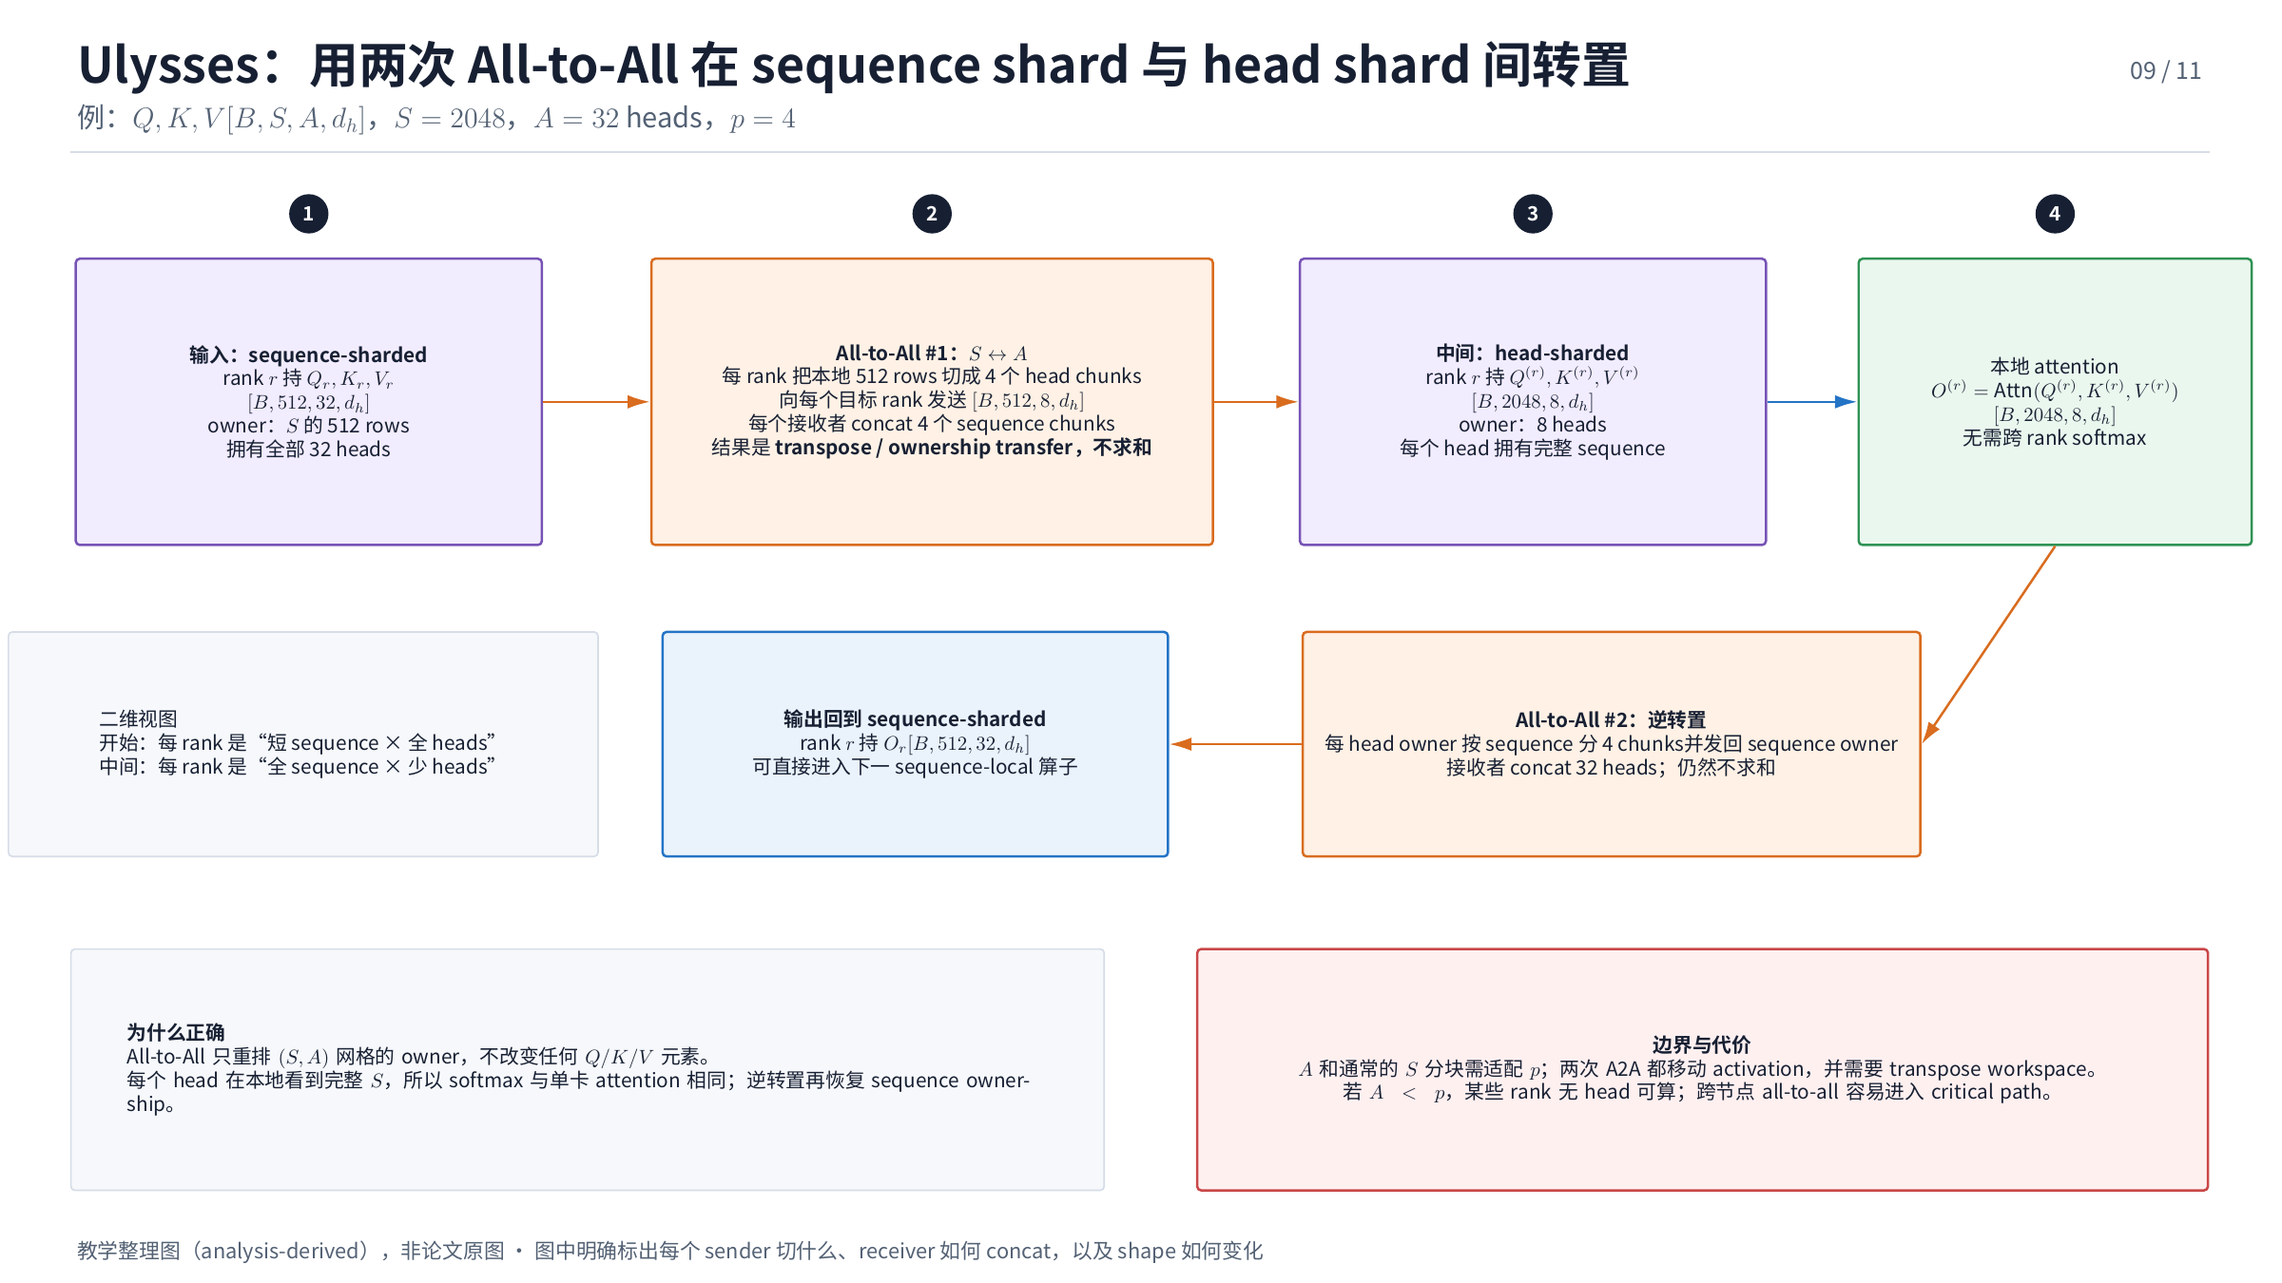
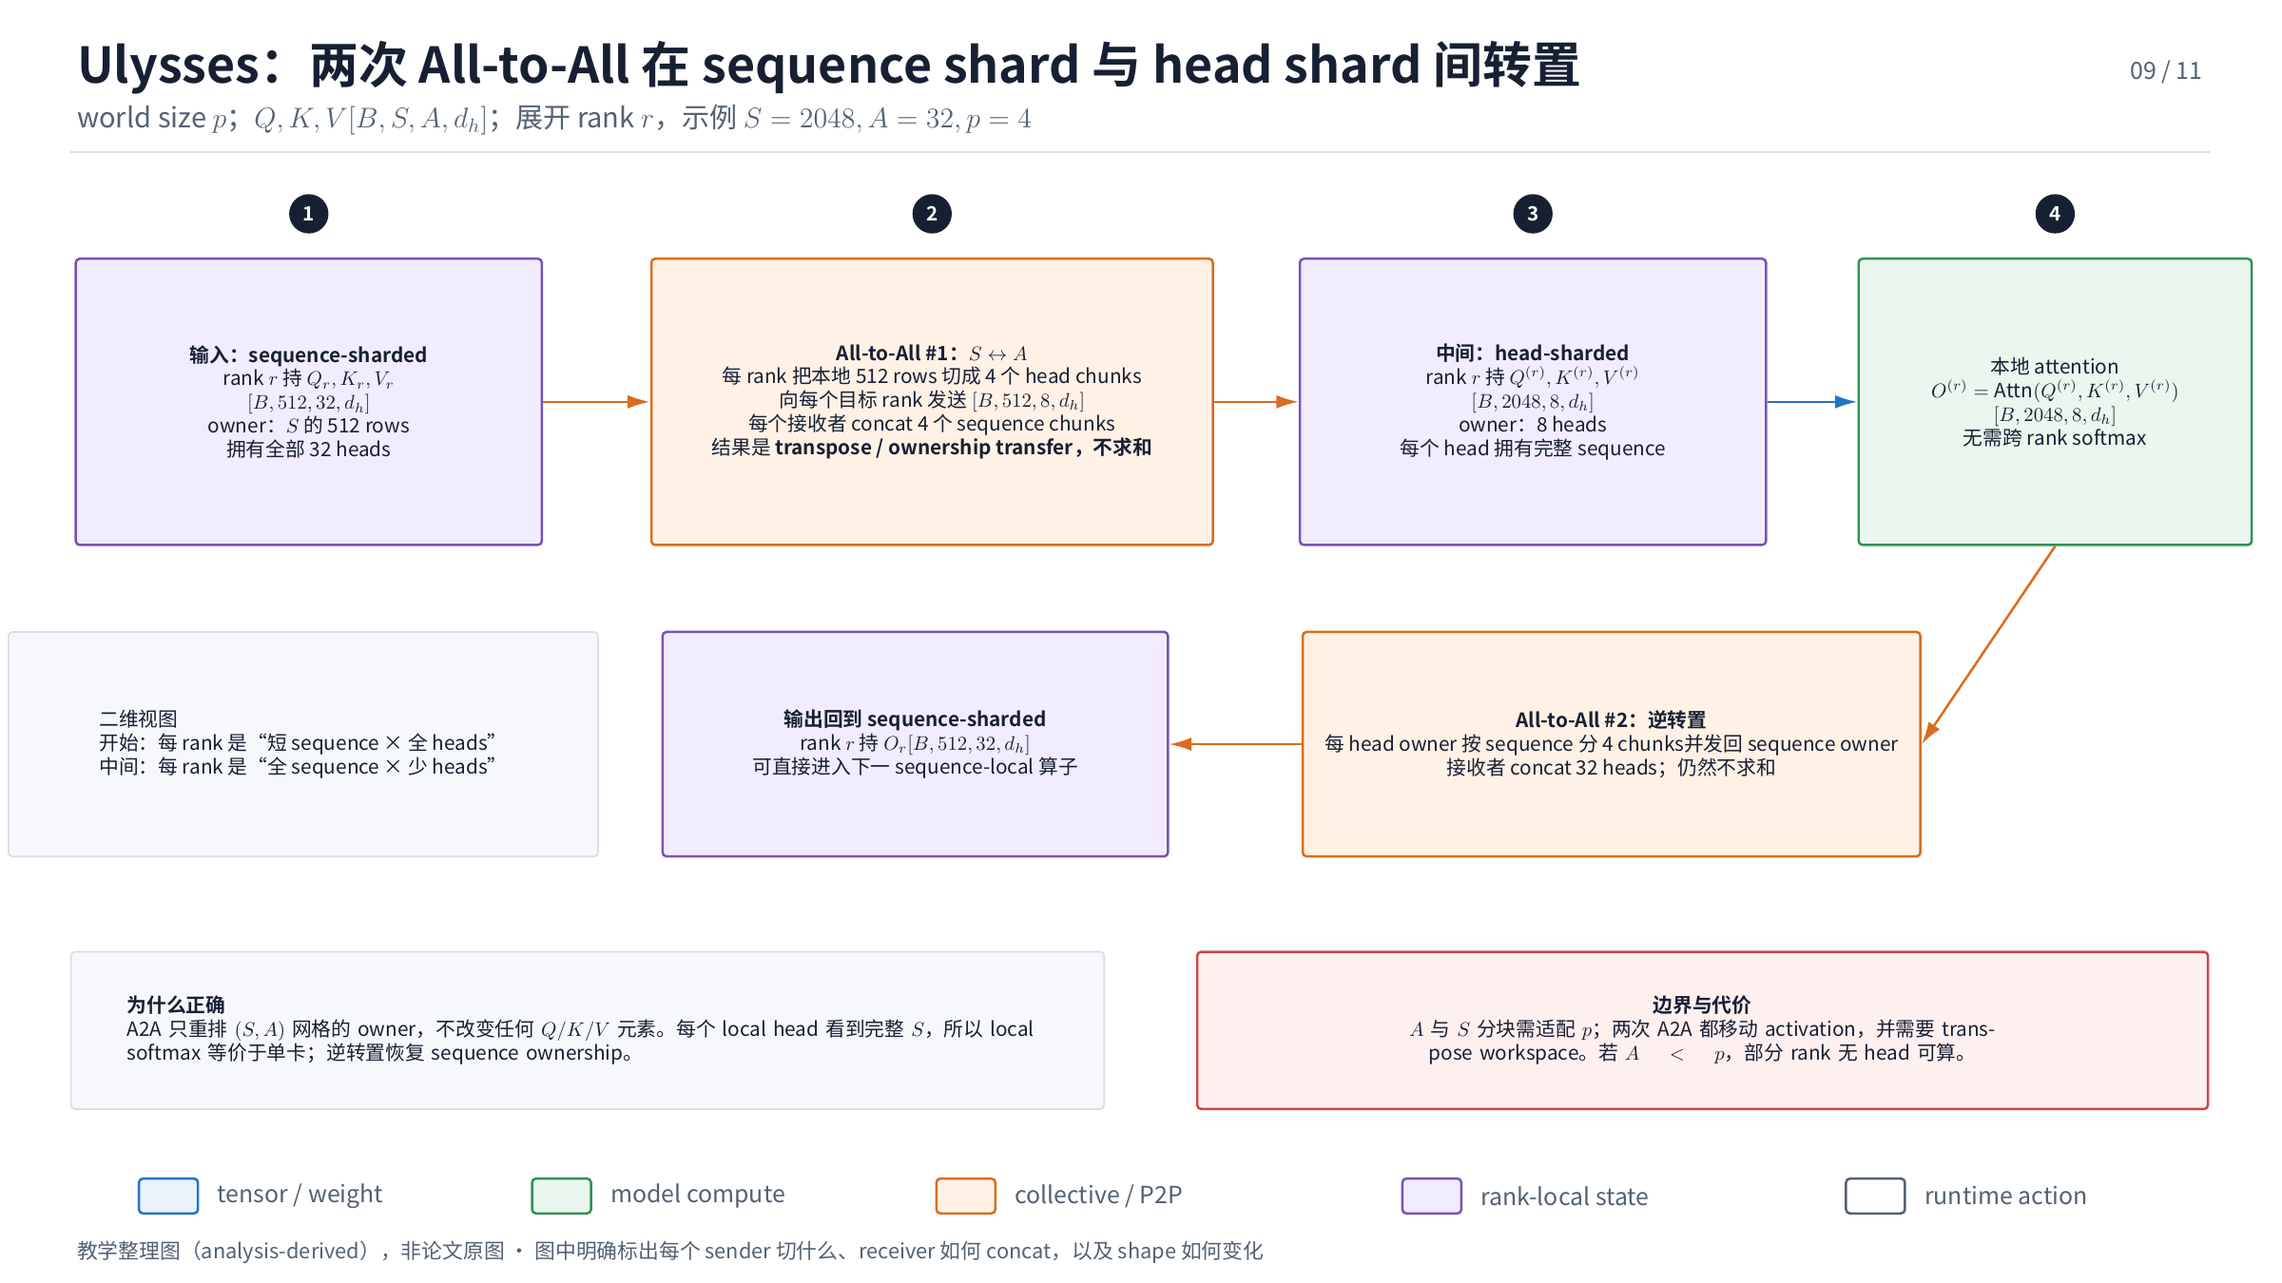
docs(parallelism): complete partitioning diagrams

diff --git a/01_ai_infra/parallelism/evidence/figure-inventory.md b/01_ai_infra/parallelism/evidence/figure-inventory.md
@@ -44,7 +44,7 @@ canonical: true
 
 以下 11 张 PNG 全部由 [并行切分方法体系](../surveys/parallel-partitioning-taxonomy.md) 独占，使用 TikZ 排版并以 `2400×1350` 输出。它们是 analysis-derived 教学整理图，不是原论文 Figure/Table，不计入论文视觉证据数量。TikZ 源码、PDF、过程渲染、contact sheet 与像素检查保留在 process workspace。
 
-2026-08-04 的 `1.9.0` 修订统一普通 DP、ZeRO-1/2/3、TP 与 EP 的 tensor-flow 视觉语法：保留输入、输出、当前 micro-batch、ownership 和持久状态等有独立语义的框；其余中间 tensor 改为主箭头附近的蓝色标注，并让细引线与主 flow 保持间距。ZeRO 图保留有助于表达顺序执行的 $m_k$，且 all-gather 输出到计算使用单根完整橙色箭头，避免拼接成多色箭头。TP/EP 按 pre-norm layer 粒度展开，`Norm` 不绑定具体归一化实现；residual shortcut 用独立蓝色虚线，TP 以纵/横条纹区分 column/row split 并显式展示本 rank weight shard，EP 采用单向处理链和 expert ownership 条带。`1.8.0` 将普通 DP 与 ZeRO-1/2/3 更新为框架中立的方法机制图：sampler 与 async release 使用独立 runtime-action 语义；weight、gradient 与 optimizer state 显式展示 ownership；ZeRO-2 删除 bucket 等实现优化；ZeRO-3 用 `MODEL LAYERS × L` 标出 layer-local 重复范围，并把 temporary BF16 weight、FWD/BWD 输入依赖和异步 release 侧支画入 workflow。原理图的可见区域不再包含 framework、commit、配置或源码符号。`1.7.0` 修订用每 rank 单条时间线替换 `1.6.0` 的并列支路，使 micro-batch 顺序由箭头拓扑显式表达。`1.6.0` 曾显式列出 $m_1$、$m_2$、$m_K$ 及累计状态，但并列布局容易被误读为同一 rank 内并发，现已替换。`1.5.0` 将 ZeRO-1 修正为 gradient reduce-scatter、owner-local update 和 parameter all-gather。`1.4.0` 修订把 DP/ZeRO 汇总图拆成普通 DP、ZeRO-1、ZeRO-2、ZeRO-3 四张 workflow。2026-08-02 的 `1.3.0` 修订把原 SVG 重绘为 TikZ。`1.2.0` 参考的 [Colossal-AI Parallelism](https://colossalai.org/docs/concepts/paradigms_of_parallelism) 只作为视觉组织参考；tensor 关系、成本注释和边界条件来自本领域 canonical Paper/Topic/Evidence 的综合分析。
+2026-08-04 的 `1.10.0` 修订把 PP、SP、Ulysses、Ring/CP 与 CFGP 补齐到同一 semantic visual grammar：蓝色只表示 tensor/weight，绿色只表示 model compute，橙色表示 collective/P2P，紫色表示 rank-local persistent state，灰色表示 runtime action。PP 分开表示 stage 参数 ownership、单个 micro-batch 的 forward/backward P2P 与 fill-drain 时间轴；SP 显式展示 AG/RS 两侧的 activation ownership 生命周期；Ulysses 保留 sender chunk、receiver concat 与双向 layout transpose；Ring/CP 把固定 $Q$、轮转 KV、online-softmax state、环形 P2P 和 causal imbalance 分层；CFGP 分开显示并行 branches、复制模型状态、branch-output exchange 和 guidance combine。五张图均参数化 world size $p$ 与 illustrated rank $r$，并移除会把 rank 颜色误当节点类型、让箭头穿过状态框或让节点超出画布的旧表达。`1.9.0` 修订统一普通 DP、ZeRO-1/2/3、TP 与 EP 的 tensor-flow 视觉语法：保留输入、输出、当前 micro-batch、ownership 和持久状态等有独立语义的框；其余中间 tensor 改为主箭头附近的蓝色标注，并让细引线与主 flow 保持间距。ZeRO 图保留有助于表达顺序执行的 $m_k$，且 all-gather 输出到计算使用单根完整橙色箭头，避免拼接成多色箭头。TP/EP 按 pre-norm layer 粒度展开，`Norm` 不绑定具体归一化实现；residual shortcut 用独立蓝色虚线，TP 以纵/横条纹区分 column/row split 并显式展示本 rank weight shard，EP 采用单向处理链和 expert ownership 条带。`1.8.0` 将普通 DP 与 ZeRO-1/2/3 更新为框架中立的方法机制图：sampler 与 async release 使用独立 runtime-action 语义；weight、gradient 与 optimizer state 显式展示 ownership；ZeRO-2 删除 bucket 等实现优化；ZeRO-3 用 `MODEL LAYERS × L` 标出 layer-local 重复范围，并把 temporary BF16 weight、FWD/BWD 输入依赖和异步 release 侧支画入 workflow。原理图的可见区域不再包含 framework、commit、配置或源码符号。`1.7.0` 修订用每 rank 单条时间线替换 `1.6.0` 的并列支路，使 micro-batch 顺序由箭头拓扑显式表达。`1.6.0` 曾显式列出 $m_1$、$m_2$、$m_K$ 及累计状态，但并列布局容易被误读为同一 rank 内并发，现已替换。`1.5.0` 将 ZeRO-1 修正为 gradient reduce-scatter、owner-local update 和 parameter all-gather。`1.4.0` 修订把 DP/ZeRO 汇总图拆成普通 DP、ZeRO-1、ZeRO-2、ZeRO-3 四张 workflow。2026-08-02 的 `1.3.0` 修订把原 SVG 重绘为 TikZ。`1.2.0` 参考的 [Colossal-AI Parallelism](https://colossalai.org/docs/concepts/paradigms_of_parallelism) 只作为视觉组织参考；tensor 关系、成本注释和边界条件来自本领域 canonical Paper/Topic/Evidence 的综合分析。
 
 | Owner | Asset | 用途 | 分辨率 | 声明 | QA |
 |---|---|---|---|---|---|
@@ -53,9 +53,9 @@ canonical: true
 | [并行切分方法体系](../surveys/parallel-partitioning-taxonomy.md) | [ZeRO-2](../assets/surveys/parallel-partitioning-taxonomy/zero2-training-workflow.png) | 保留当前 $m_k$；每个 micro-batch 的 FP32 gradient reduce-scatter、owner-shard accumulation、owner-local optimizer 与 BF16 parameter all-gather | `2400×1350` | 教学整理图 / 非论文证据 | passed：LuaLaTeX、原分辨率逐图检查、无 bucket 实现细节、分支箭头/tensor callout/ownership/collective 语义 QA，2026-08-04 |
 | [并行切分方法体系](../surveys/parallel-partitioning-taxonomy.md) | [ZeRO-3](../assets/surveys/parallel-partitioning-taxonomy/zero3-training-workflow.png) | `MODEL LAYERS × L`、temporary BF16 weight callout、FWD/BWD 输入依赖、异步 release 侧支、gradient reduce-scatter 与 shard-local optimizer | `2400×1350` | 教学整理图 / 非论文证据 | passed：LuaLaTeX、原分辨率逐图检查、无文字覆盖、单根 all-gather 输入箭头、lifecycle/ownership/collective 频率 QA，2026-08-04 |
 | [并行切分方法体系](../surveys/parallel-partitioning-taxonomy.md) | [TP](../assets/surveys/parallel-partitioning-taxonomy/tensor-parallel-block.png) | pre-norm attention/FFN layer；$[B,S,H]$ tensor flow；column/row 条纹、rank-local weight ownership、partial all-reduce 与 residual shortcuts | `2400×1350` | 教学整理图 / 非论文证据 | passed：LuaLaTeX、原分辨率逐图检查、tensor callout 间距、shortcut 分离、weight shard/shape/collective 语义 QA，2026-08-04 |
-| [并行切分方法体系](../surveys/parallel-partitioning-taxonomy.md) | [PP](../assets/surveys/parallel-partitioning-taxonomy/pipeline-parallel-schedule.png) | layer ownership、micro-batch activation/gradient P2P 与 fill-drain bubble | `2400×1350` | 教学整理图 / 非论文证据 | passed after 11-page renumber：原分辨率逐图检查，2026-08-03 |
+| [并行切分方法体系](../surveys/parallel-partitioning-taxonomy.md) | [PP](../assets/surveys/parallel-partitioning-taxonomy/pipeline-parallel-schedule.png) | stage 参数 ownership、单个 micro-batch 的 activation/gradient P2P、fill-drain 时间线与 bubble | `2400×1350` | 教学整理图 / 非论文证据 | passed：LuaLaTeX、原分辨率逐图检查、sequential schedule、P2P/ownership/bubble/节点类型语义 QA，2026-08-04 |
 | [并行切分方法体系](../surveys/parallel-partitioning-taxonomy.md) | [EP](../assets/surveys/parallel-partitioning-taxonomy/expert-parallel-routing.png) | pre-norm MoE layer 单向执行链；箭头标注 token layout；A2A dispatch/return、local expert FFN、residual shortcut 与 expert weight ownership | `2400×1350` | 教学整理图 / 非论文证据 | passed：LuaLaTeX、原分辨率逐图检查、flow 顺序、tensor callout 间距、shortcut/ownership/A2A 语义 QA，2026-08-04 |
-| [并行切分方法体系](../surveys/parallel-partitioning-taxonomy.md) | [Megatron SP](../assets/surveys/parallel-partitioning-taxonomy/megatron-sequence-parallel.png) | sequence-sharded non-TP activation、all-gather、TP linear 与 reduce-scatter | `2400×1350` | 教学整理图 / 非论文证据 | passed after 11-page renumber：原分辨率逐图检查，2026-08-03 |
-| [并行切分方法体系](../surveys/parallel-partitioning-taxonomy.md) | [Ulysses](../assets/surveys/parallel-partitioning-taxonomy/ulysses-layout-transpose.png) | sequence/head ownership transpose、sender chunks、receiver concat 与两次 A2A | `2400×1350` | 教学整理图 / 非论文证据 | passed after 11-page renumber：原分辨率逐图检查，2026-08-03 |
-| [并行切分方法体系](../surveys/parallel-partitioning-taxonomy.md) | [Ring/CP](../assets/surveys/parallel-partitioning-taxonomy/ring-context-parallel.png) | local Q ownership、rotating KV payload、block attention、online softmax 与 causal imbalance | `2400×1350` | 教学整理图 / 非论文证据 | passed after 11-page renumber：原分辨率逐图检查，2026-08-03 |
-| [并行切分方法体系](../surveys/parallel-partitioning-taxonomy.md) | [CFGP](../assets/surveys/parallel-partitioning-taxonomy/cfg-branch-parallel.png) | condition-axis shard、branch-local output exchange、guidance combine 与复制状态 | `2400×1350` | 教学整理图 / 非论文证据 | passed after 11-page renumber：原分辨率逐图检查，2026-08-03 |
+| [并行切分方法体系](../surveys/parallel-partitioning-taxonomy.md) | [Megatron SP](../assets/surveys/parallel-partitioning-taxonomy/megatron-sequence-parallel.png) | sequence-local compute、AG/RS 边界、TP partial 与阶段 activation ownership | `2400×1350` | 教学整理图 / 非论文证据 | passed：LuaLaTeX、原分辨率逐图检查、rank $r$/shape/buffer lifetime/AG-RS 语义 QA，2026-08-04 |
+| [并行切分方法体系](../surveys/parallel-partitioning-taxonomy.md) | [Ulysses](../assets/surveys/parallel-partitioning-taxonomy/ulysses-layout-transpose.png) | sequence/head ownership transpose、sender chunks、receiver concat、local attention 与两次 A2A | `2400×1350` | 教学整理图 / 非论文证据 | passed：LuaLaTeX、原分辨率逐图检查、$p/r$/shape/sender-receiver/no-sum/layout 语义 QA，2026-08-04 |
+| [并行切分方法体系](../surveys/parallel-partitioning-taxonomy.md) | [Ring/CP](../assets/surveys/parallel-partitioning-taxonomy/ring-context-parallel.png) | fixed local Q、rotating KV、block attention、online-softmax state、causal imbalance | `2400×1350` | 教学整理图 / 非论文证据 | passed：LuaLaTeX、原分辨率逐图检查、双输入不穿框、P2P/ownership/online state/causal matrix 语义 QA，2026-08-04 |
+| [并行切分方法体系](../surveys/parallel-partitioning-taxonomy.md) | [CFGP](../assets/surveys/parallel-partitioning-taxonomy/cfg-branch-parallel.png) | branch assignment、并行 model forward、复制状态、output exchange、guidance combine 与 next step | `2400×1350` | 教学整理图 / 非论文证据 | passed：LuaLaTeX、原分辨率逐图检查、无越界/穿线、branch/state/exchange/combine 语义 QA，2026-08-04 |

diff --git a/01_ai_infra/parallelism/surveys/parallel-partitioning-taxonomy.md b/01_ai_infra/parallelism/surveys/parallel-partitioning-taxonomy.md
@@ -147,6 +147,8 @@ $$
 
 ![Pipeline Parallel schedule|1376](../assets/surveys/parallel-partitioning-taxonomy/pipeline-parallel-schedule.png)
 
+> 图上半部把 layer-stage 参数 ownership 与单个 $m_k$ 的 forward activation / backward gradient P2P 分开；下半部用每个 stage 的单条时间线表示 fill-drain schedule。实线绿格是 forward compute，虚线绿格是 backward compute，空白格才是 bubble；颜色不再表示 rank，以免把持久状态、计算和通信混为一类。
+
 > 教学整理图，非论文证据。GPipe 的 schedule、重计算与实验证据见 [GPipe](../papers/gpipe.md#核心机制)。
 
 ### 方法卡
@@ -193,6 +195,8 @@ $$
 
 ![Megatron Sequence Parallel|1235](../assets/surveys/parallel-partitioning-taxonomy/megatron-sequence-parallel.png)
 
+> 图沿 Transformer 子层主链展示 rank $r$ 的 sequence shard：Norm、dropout、residual 等本地算子保持 $[B,S/p,H]$；进入 TP linear 前沿 $S$ 执行 all-gather，row-parallel partial 出口再用 reduce-scatter 完成逐元素求和并恢复 $[B,S/p,H]$。阶段 ownership 条带区分持久 shard、temporary full sequence 与 TP partial 的生命周期。
+
 > 教学整理图，非论文证据。术语边界与 Ulysses/Ring 对照见[序列与上下文并行](../topics/sequence-and-context-parallelism.md)。
 
 ### 方法卡
@@ -210,6 +214,8 @@ $$
 ## 8. Ulysses：sequence 与 heads 的 layout transpose
 
 ![Ulysses layout transpose|1376](../assets/surveys/parallel-partitioning-taxonomy/ulysses-layout-transpose.png)
+
+> 第一次 all-to-all 让每个 sequence owner 把本地 $S/p$ rows 按 head 切成 $p$ 份；每个 head owner 接收所有 ranks 的 sequence chunks 并 concat，得到 $[B,S,A/p,d_h]$。本地 attention 后第二次 all-to-all 做逆转置，重新得到 $[B,S/p,A,d_h]$。两次通信都只改变元素 owner，不做数值归约。
 
 > 教学整理图，非论文证据。论文公式、有限实现核验和复合收益边界见 [DeepSpeed Ulysses](../papers/deepspeed-ulysses.md#核心机制)。
 
@@ -229,6 +235,8 @@ $$
 
 ![Ring Context Parallel|1525](../assets/surveys/parallel-partitioning-taxonomy/ring-context-parallel.png)
 
+> rank $r$ 固定持有 $Q_r$ 与最终输出 $O_r$；current/next buffer 逐步接收轮转的 $K_j,V_j$ block。两条独立输入线汇入 block attention，online-softmax state 再逐 block 合并。中部环形 P2P 展示 KV ownership transfer，底部 causal block matrix 则单独展示不同 $Q_i$ rows 的有效计算不均衡。
+
 > 教学整理图，非论文证据。online softmax、blockwise 机制与证据边界见 [Ring Attention](../papers/ring-attention.md#核心机制)。
 
 ### 方法卡
@@ -246,6 +254,8 @@ $$
 ## 10. CFGP：沿 conditional branch 切分
 
 ![Classifier-Free Guidance Parallel|1365](../assets/surveys/parallel-partitioning-taxonomy/cfg-branch-parallel.png)
+
+> 同一个 denoising step 先把 conditional 与 unconditional condition 分给两个 branch ranks；两条 model forward 真正并发，输出 $\epsilon_c,\epsilon_u$ 在 combine owner 汇合后执行本地 guidance 公式。下方 ownership 区明确模型权重与 branch cache 通常复制，而跨 rank 传输的是两份 branch output，不是 reduction result。
 
 > 教学整理图，非论文证据。跨域 canonical 案例与 owner 链接见[跨领域采用](../evidence/parallel-partitioning-cross-domain-adoption.md)。
 
@@ -277,7 +287,7 @@ DP → ZeRO/FSDP → TP → PP → EP → CP/SP。
 
 ## 12. 证据边界与使用方式
 
-- 六篇 canonical Paper 均已完成 schema/semantic validation 和原图 QA；本页新增的 8 张 SVG 全部是 **analysis-derived 教学整理图**，不计入原论文视觉证据。
+- 六篇 canonical Paper 均已完成 schema/semantic validation 和原图 QA；本页的 11 张 PNG 全部是 **analysis-derived 教学整理图**，不计入原论文视觉证据。
 - DP/ZeRO、TP、PP、EP、Ulysses 与 Ring 的论文级依据分别链接到 [ZeRO](../papers/zero.md)、[Megatron-LM](../papers/megatron-lm.md)、[GPipe](../papers/gpipe.md)、[GShard](../papers/gshard.md)、[DeepSpeed Ulysses](../papers/deepspeed-ulysses.md) 和 [Ring Attention](../papers/ring-attention.md)。
 - Megatron Sequence Parallel 与 CFGP 是跨来源综合；术语与采用边界分别见[序列/上下文并行 Topic](../topics/sequence-and-context-parallelism.md)和[跨领域采用 Evidence](../evidence/parallel-partitioning-cross-domain-adoption.md)。
 - 所有公式描述理论量级与明确假设。full-system throughput、scaling efficiency 或 end-to-end latency 不能自动归因给单个 parallel primitive。
